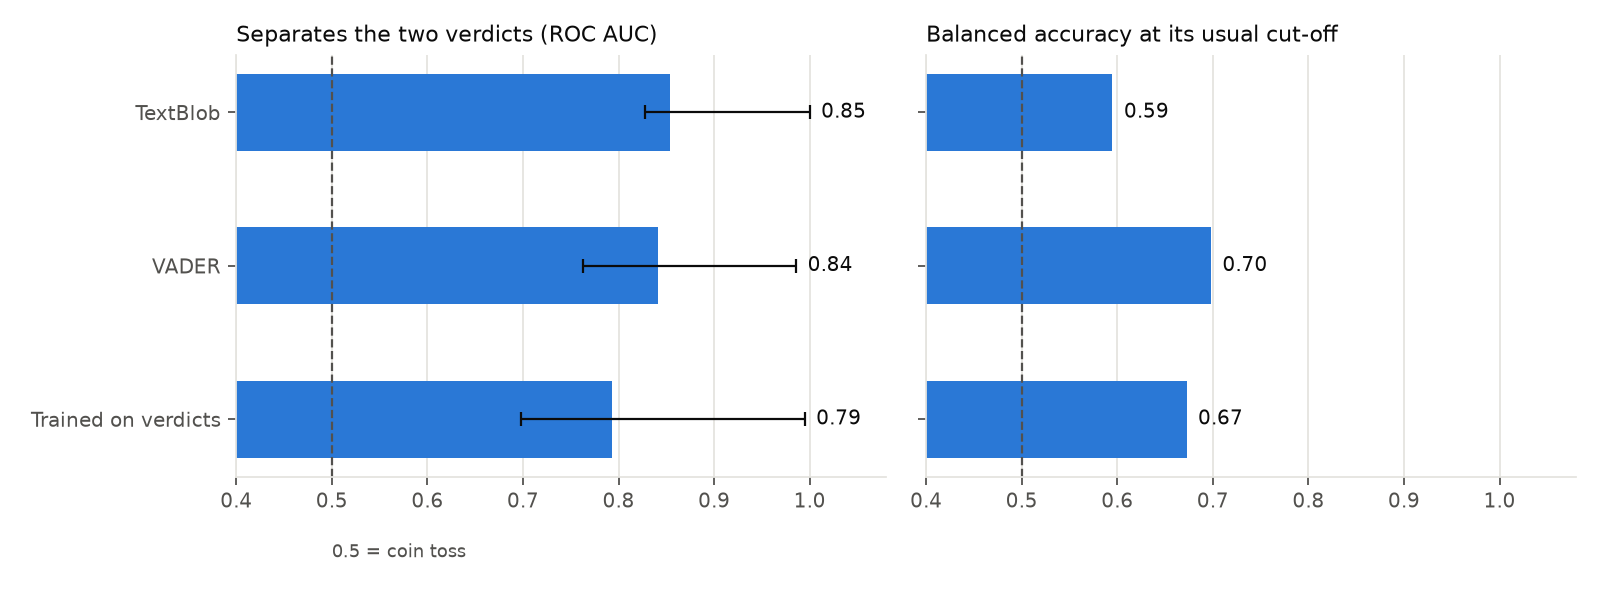
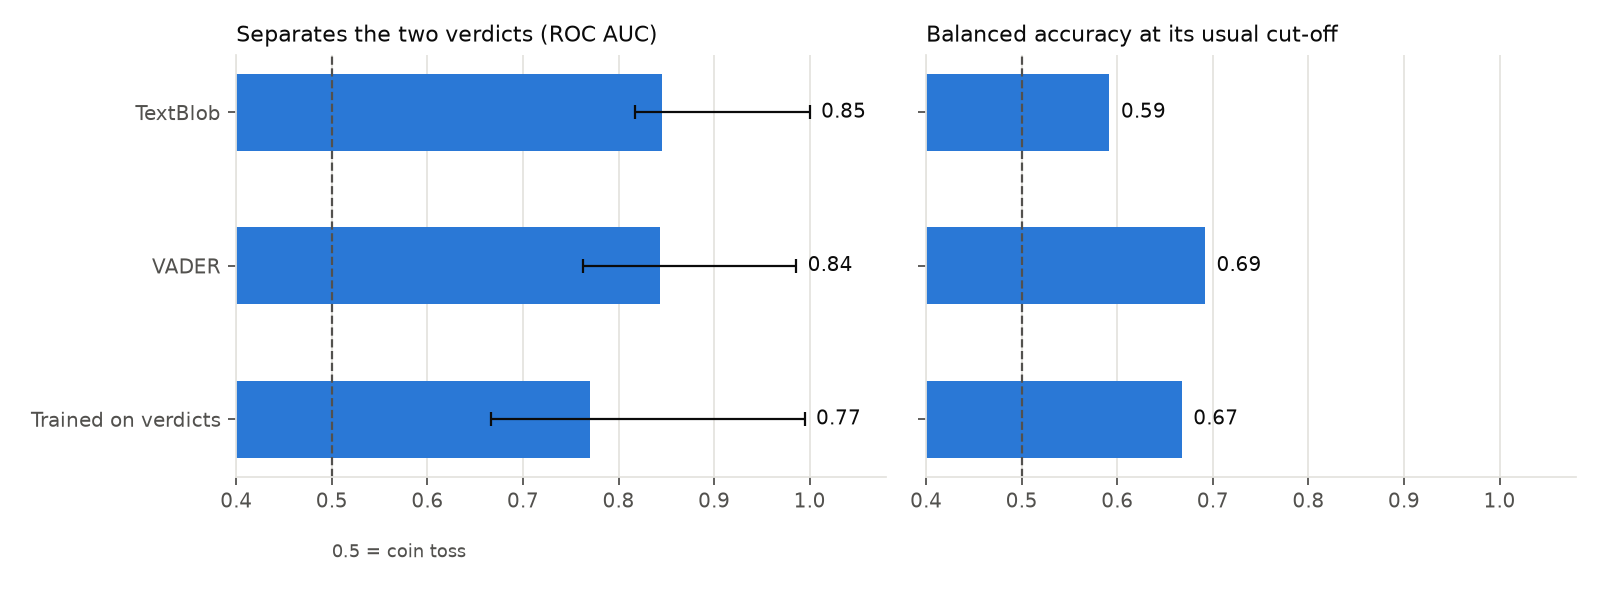
Monthly results: top 10 airing anime

diff --git a/results/results.md b/results/results.md
@@ -1,11 +1,11 @@
 # Results
 
-185 reviews of 9 shows, each tagged by its author as Recommended (124), Mixed Feelings (25), Not Recommended (36).
+185 reviews of 9 shows, each tagged by its author as Recommended (123), Mixed Feelings (25), Not Recommended (37).
 Dropped before analysis: 0 with no verdict tag, 0 empty, 0 duplicates.
 
 ## The anime
 
-The top 10 anime on MyAnimeList's top airing chart on 2026-10-01, and each one's newest 100 reviews.
+The top 10 anime on MyAnimeList's top airing chart on 2026-10-02, and each one's newest 100 reviews.
 
 | Chart rank | Anime | MAL score | Reviews |
 | ---: | --- | ---: | ---: |
@@ -24,13 +24,13 @@ The top 10 anime on MyAnimeList's top airing chart on 2026-10-01, and each one's
 
 The score MyAnimeList shows is the average of every user's rating. Each review also carries its author's 1–10 rating, so the latest reviews can be checked against it.
 
-Across the 9 shows with rated reviews, the latest reviews average **0.69 points below** the site score, and are **0.82 points away** on average. 4 of 9 land within half a point.
+Across the 9 shows with rated reviews, the latest reviews average **0.69 points below** the site score, and are **0.83 points away** on average. 4 of 9 land within half a point.
 
 | Chart rank | Anime | MAL score | Latest reviews | Their average rating | Gap | Recommended | Reviews dated |
 | ---: | --- | ---: | ---: | ---: | ---: | ---: | --- |
 | 1 | Steel Ball Run: JoJo no Kimyou na Bouken | 9.06 | 3 | 9.67 | +0.61 | 100% | 2026-09-28 to 2026-09-30 |
 | 2 | Bleach: Sennen Kessen-hen - Kashin-tan | 9.02 | 31 | 7.71 | -1.31 | 71% | 2026-08-12 to 2026-09-23 |
-| 3 | One Piece | 8.72 | 100 | 7.62 | -1.10 | 60% | 2025-04-02 to 2026-09-12 |
+| 3 | One Piece | 8.72 | 100 | 7.55 | -1.17 | 59% | 2025-04-14 to 2026-10-01 |
 | 4 | Chiikawa | 8.63 | 8 | 8.38 | -0.26 | 100% | 2023-10-29 to 2026-09-19 |
 | 5 | Seihantai na Kimi to Boku 2nd Season | 8.51 | 18 | 8.44 | -0.07 | 89% | 2026-07-21 to 2026-09-29 |
 | 6 | Shiguang Dailiren III | 8.51 | 4 | 6.75 | -1.76 | 50% | 2026-08-31 to 2026-10-01 |
@@ -43,19 +43,19 @@ Reviews are a small, self-selected group: people who write a review often feel s
 
 ## What TextBlob says
 
-TextBlob calls 91.9% of reviews positive. The reviewers themselves recommend 67.0% of the shows they review, and TextBlob scores 78% of **Not Recommended** reviews as positive.
+TextBlob calls 91.9% of reviews positive. The reviewers themselves recommend 66.5% of the shows they review, and TextBlob scores 78% of **Not Recommended** reviews as positive.
 
 ![TextBlob polarity by verdict](figures/textblob_by_verdict.png)
 
 ## How well each method matches the verdict
 
-Recommended vs Not Recommended: 160 reviews (124 vs 36). Five-fold cross-validation split by show, so every review is scored by a model that never saw that show. Balanced accuracy averages the hit rate on each verdict, so always answering "Recommended" scores 50%.
+Recommended vs Not Recommended: 160 reviews (123 vs 37). Five-fold cross-validation split by show, so every review is scored by a model that never saw that show. Balanced accuracy averages the hit rate on each verdict, so always answering "Recommended" scores 50%.
 
 | Method | ROC AUC (95% CI) | Balanced accuracy, usual cut-off | Balanced accuracy, tuned cut-off | Not Recommended caught |
 | --- | ---: | ---: | ---: | ---: |
-| TextBlob | 0.85 (0.83–1.00) | 59% | 78% | 22% |
-| VADER | 0.84 (0.76–0.99) | 70% | 73% | 44% |
-| Trained on verdicts | 0.79 (0.70–0.99) | 67% | 69% | 36% |
+| TextBlob | 0.85 (0.82–1.00) | 59% | 77% | 22% |
+| VADER | 0.84 (0.76–0.99) | 69% | 73% | 43% |
+| Trained on verdicts | 0.77 (0.67–0.99) | 67% | 68% | 35% |
 
 Best at separating the verdicts: **TextBlob**.
 
@@ -63,23 +63,23 @@ Best at separating the verdicts: **TextBlob**.
 
 ## Three verdicts
 
-Trained on all three tags, the model reaches a macro F1 of 0.45 and balanced accuracy of 46%. Rows are the reviewer's tag, columns the model's guess:
+Trained on all three tags, the model reaches a macro F1 of 0.45 and balanced accuracy of 45%. Rows are the reviewer's tag, columns the model's guess:
 
 | | Recommended | Mixed Feelings | Not Recommended |
 | --- | ---: | ---: | ---: |
-| **Recommended** | 122 | 0 | 2 |
-| **Mixed Feelings** | 22 | 0 | 3 |
-| **Not Recommended** | 22 | 0 | 14 |
+| **Recommended** | 121 | 0 | 2 |
+| **Mixed Feelings** | 23 | 0 | 2 |
+| **Not Recommended** | 23 | 0 | 14 |
 
 ## What the trained model listens to
 
 Words and phrases with the largest weights toward each verdict:
 
-- **Recommended:** best, the best, 10 10, cour, romance, donghua, feel, world, chiikawa, journey, we, very, such, watch, to say
-- **Not Recommended:** fight, out of, plot, same, minutes, the worst, worst, over, someone, 20, then, the same, bad, boring, to make
+- **Recommended:** best, the best, 10 10, cour, romance, donghua, chiikawa, we, journey, really, such, cute, feel, masterpiece, to say
+- **Not Recommended:** fight, out of, plot, minutes, same, the worst, bad, worst, over, 20, someone, then, the same, boring, point
 
 ## Caveats
 
-- Reviews of the top airing chart on MyAnimeList, downloaded 2026-10-01. Reviewers who write reviews are not all viewers, so these rates describe reviews, not audiences.
+- Reviews of the top airing chart on MyAnimeList, downloaded 2026-10-02. Reviewers who write reviews are not all viewers, so these rates describe reviews, not audiences.
 - A tag is a single summary of a long, often mixed review; some disagreement with any method is expected.
 - Scores come from English text only; reviews in other languages were left as they are.
